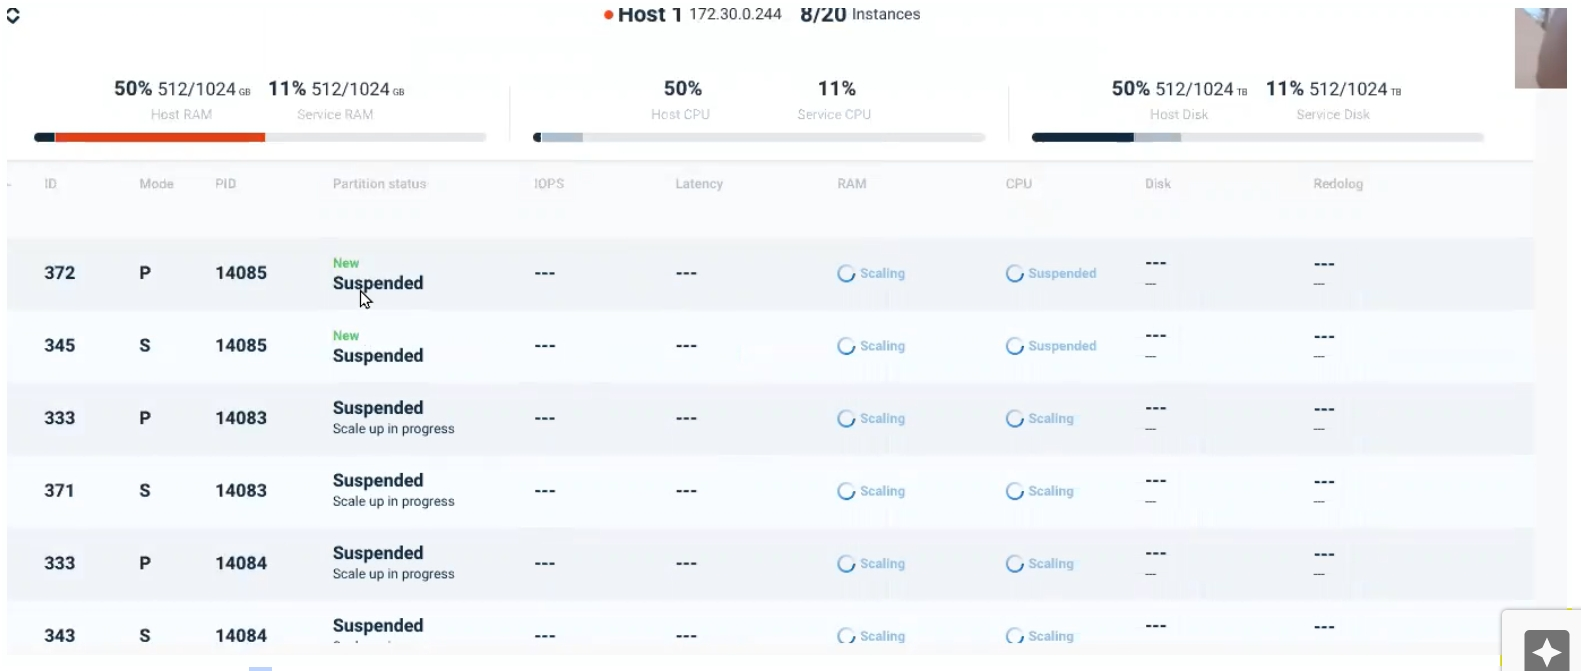
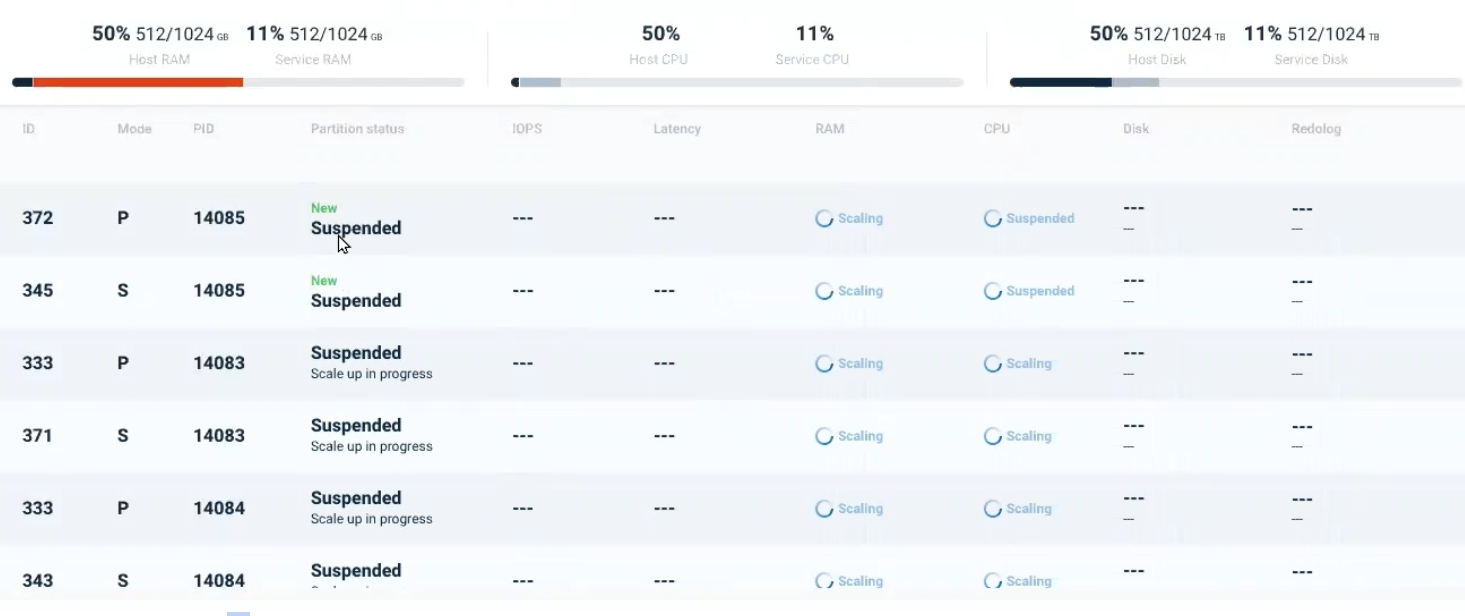
"update screenshots" project for ops manager

diff --git a/site-flare/Content/admin/admin-view-types.html b/site-flare/Content/admin/admin-view-types.html
@@ -9,8 +9,9 @@
         <div class="easyui-tabs" plain="true" data-options="">
             <div title="GigaSpaces Ops Manager" style="padding:10px" MadCap:conditions="Version.15-2-only">
                 <p>In the Space overview page, click a Space to drill down.</p>
-                <p>Within this page, the IT administrator or developer can review the Object Type properties and metrics related to size, distribution per partition etc.</p>
-                <p>At the top of the page, it is possible to review the Object Type name and data related to the number of entries, indexes, and Notify Contains generated by the Object Type. A summary of the information available is given below.</p>
+                <p>Within this page, the IT administrator or developer can review the Object Type properties and metrics.</p>
+                <p MadCap:conditions="Default.DoNotShow">At the top of the page, it is possible to review the Object Type name and data related to the number of entries, indexes, and Notify Contains generated by the Object Type. A summary of the information available is given below.</p>
+                <p>For each Object type, you can view the following properties at the bottom of the page:</p>
                 <table>
                     <tr MadCap:conditions="">
                         <th>Parameter</th>
@@ -47,15 +48,10 @@
                     <tr MadCap:conditions="">
                         <td id="sql-editor">SQL editor</td>
                         <td>
-                            <p>Press on the SQL Editor tab to see a SQL SELECT statement for the selected Object Type, in the example below, the Person Object.</p>
+                            <p>Press on the SQL Editor tab to see a SQL SELECT statement for the selected Object Type, in the example below, the <b>Persons</b> Object.</p>
                             <p>Press <b>Run Query</b>. The results will appear in the Query Results table on the bottom of the page.<br /><img src="../Resources/Static/attachment_files/01 SQL OPM.png" class="tc-picture50" style="width: 926px; height: 118px;" /></p>
                             <div class="tc-admon-note">
-                                <p>The user can edit the query, for example:</p>
-                                <p>
-                                    <br />
-                                    <img src="../Resources/Static/attachment_files/02 SQL OPM.png" class="tc-picture60" />
-                                    <br />
-                                </p>
+                                <p>The user can edit the query, for example:</p><code class="language-sql">SELECT * FROM "com.mycompany.app.model.Persons" where personname LIKE '%Person 1%' LIMIT 10</code>
                             </div>
                         </td>
                     </tr><span id="explain-plan"></span>
@@ -135,7 +131,97 @@
                 </table>
                 <p>&#160;</p>
             </div>
-            <div title="GigaSpaces Ops Manager" style="padding:10px" MadCap:conditions="Version.15-8-born">
+            <div title="GigaSpaces Ops Manager" style="padding:10px" MadCap:conditions="Version.16-1-born">
+                <p>In the Space overview page, click a Space to drill down.</p>
+                <p>Within this page, the IT administrator or developer can review the Object Type properties and metrics related to size, distribution per partition etc.</p>
+                <p>At the top of the page, it is possible to review the Object Type name and data related to the number of entries, indexes, and Notify Contains generated by the Object Type. A summary of the information available is given below.</p>
+                <table>
+                    <tr MadCap:conditions="">
+                        <th>Parameter</th>
+                        <th>Description</th>
+                    </tr>
+                    <tr MadCap:conditions="">
+                        <td>Name</td>
+                        <td>Name of the data object</td>
+                    </tr>
+                    <tr MadCap:conditions="">
+                        <td>Entries</td>
+                        <td>Number of entries for the object</td>
+                    </tr>
+                    <tr MadCap:conditions="">
+                        <td>RAM size</td>
+                        <td>Total amount of RAM used by the object</td>
+                    </tr>
+                    <tr MadCap:conditions="">
+                        <td>ID</td>
+                        <td>Pointer to the primary key of the data type in the Space</td>
+                    </tr>
+                    <tr MadCap:conditions="">
+                        <td>Indexes</td>
+                        <td>Number of indexes defined for the Object Type</td>
+                    </tr>
+                    <tr MadCap:conditions="">
+                        <td>Routing</td>
+                        <td>Pointer to the field that identifies the Space partition.</td>
+                    </tr>
+                    <tr MadCap:conditions="">
+                        <td>Notify containers</td>
+                        <td>How many instances of this object type match a template in an event container. </td>
+                    </tr>
+                    <tr MadCap:conditions="Default.DoNotShow">
+                        <td id="sql-editor">SQL editor</td>
+                        <td>
+                            <p>Press on the SQL Editor tab to see a SQL SELECT statement for the selected Object Type, in the example below, the Persons Object.</p>
+                            <p>Press <b>Run Query</b>. The results will appear in the Query Results table on the bottom of the page.</p>
+                            <p>An example query is as follows:</p><code class="language-sql" style="font-weight: bold;">SELECT * FROM "com.mycompany.app.model.Persons" LIMIT 10</code>
+                            <p>This example query can be seen in the Ops Manager screen:<br /></p>
+                            <p>
+                                <img src="../Resources/Static/attachment_files/01 SQL OPM.png" />
+                            </p>
+                            <div class="tc-admon-note">
+                                <p>The user can edit the query, for example:</p>
+                                <p><code class="language-sql" style="font-weight: bold;">SELECT * FROM "com.mycompany.app.model.Persons" where personname LIKE '%Person 1%' LIMIT 10</code>
+                                </p>
+                            </div>
+                        </td>
+                    </tr><span id="explain-plan"></span>
+                    <tr MadCap:conditions="Default.DoNotShow">
+                        <td>Explain Plan</td>
+                        <td>
+                            <p>The <b>Explain Plan</b> of a query can be viewed In the Ops Manager when running a query in the SQL Query Editor. The output of the query explain plan is shown in a collapsible view above the query results table. </p>
+                            <div class="tc-admon-note">
+                                <p>To enable the Explain Plan feature, begin the query with <code class="language-sql">EXPLAIN</code>, for example:</p><code class="language-sql" style="font-weight: bold;"><span class="tc-highlight">EXPLAIN</span> SELECT * FROM "com.mycompany.app.model.Persons" LIMIT 10</code>
+                            </div>
+                            <div class="tc-admon-attention" MadCap:conditions="Version.15-5-born">
+                                <p>Running a query with an Explain Plan may impact the query performance.</p>
+                            </div>
+                        </td>
+                    </tr>
+                </table>
+                <p>Press on the SQL Editor tab to see a SQL SELECT statement for the selected Object Type.</p>
+                <p>Press <b>Run Query</b>. The results will appear in the Query Results table on the bottom of the page.</p>
+                <p>An example query is as follows:</p>
+                <p><code class="language-sql" style="font-weight: bold;">SELECT * FROM "com.mycompany.app.model.Persons" LIMIT 10</code>
+                </p>
+                <p>This example query can be seen in the Ops Manager screen:</p>
+                <p>
+                    <img src="../Resources/Static/attachment_files/01 SQL OPM.png" style="width: 669px;height: 187px;" />
+                </p>
+                <div class="tc-admon-note">
+                    <p>The user can edit the query, for example:</p>
+                    <p><code class="language-sql" style="font-weight: bold;">SELECT * FROM "com.mycompany.app.model.Persons" where personname LIKE '%Person 1%' LIMIT 10</code>
+                    </p>
+                </div>
+                <p>The <b>Explain Plan</b> of a query can be viewed In the Ops Manager when running a query in the SQL Query Editor. The output of the query explain plan is shown in a collapsible view above the query results table. </p>
+                <div class="tc-admon-note">
+                    <p>To enable the Explain Plan feature, begin the query with <code class="language-sql">EXPLAIN</code>, for example:</p><code class="language-sql" style="font-weight: bold;"><span class="tc-highlight">EXPLAIN</span> SELECT * FROM "com.mycompany.app.model.Persons" LIMIT 10</code>
+                </div>
+                <div class="tc-admon-attention" MadCap:conditions="Version.15-5-born">
+                    <p>Running a query with an Explain Plan may impact the query performance.</p>
+                </div>
+                <p>&#160;</p>
+            </div>
+            <div title="GigaSpaces Ops Manager" style="padding:10px" MadCap:conditions="Version.15-8-born,Version.16-1-died">
                 <p>In the Space overview page, click a Space to drill down.</p>
                 <p>Within this page, the IT administrator or developer can review the Object Type properties and metrics related to size, distribution per partition etc.</p>
                 <p>At the top of the page, it is possible to review the Object Type name and data related to the number of entries, indexes, and Notify Contains generated by the Object Type. A summary of the information available is given below.</p>
@@ -185,8 +271,7 @@
                     <tr MadCap:conditions="">
                         <td id="sql-editor">SQL editor</td>
                         <td>
-                            <p>Press on the SQL Editor tab to see a SQL SELECT statement for the selected Object Type, in the example below, the Person Object.</p>
-                            <p>Press <b>Run Query</b>. The results will appear in the Query Results table on the bottom of the page.<br /><img src="../Resources/Static/attachment_files/01 SQL OPM.png" class="tc-picture90" style="width: 819px; height: 104px;" /></p>
+                            <p>Press on the SQL Editor tab to see a SQL SELECT statement for the selected Object Type.</p>
                             <div class="tc-admon-note">
                                 <p>The user can edit the query, for example:</p>
                                 <p>

diff --git a/site-flare/Content/production/production-Scale-Out-In.html b/site-flare/Content/production/production-Scale-Out-In.html
@@ -52,16 +52,22 @@
         <h1>On Demand Scale Out/In Using the Ops Manager</h1>
         <div title="GigaSpaces Ops Manager" style="padding:10px">
             <p>Click on the service card of the desired service in Ops Manager. The Service Details screen will display:</p>
-            <p>
+            <p MadCap:conditions="Version.16-1-died">
                 <img src="../Resources/Static/images/SOSI--click-on-ellipsis-menu.jpg" />
+            </p>
+            <p MadCap:conditions="Version.16-1-born">
+                <img src="../Resources/Static/images/SOSI--click-on-ellipsis-menu-16.1.png" />
             </p>
             <p>Note the ellipsis menu (three vertical dots). Click on the option On Demand Scale Out/In. Depending on the method of orchestration you are using, the next screen will appear as follows:</p>
             <p><b>ServiceGrid:</b>
             </p>
-            <p style="text-align: center;">
-                <img src="../Resources/Static/images/SOSI-service-grid.jpg" class="tc-picture40" />
+            <p style="text-align: center;" MadCap:conditions="Default.DoNotShow">
+                <img src="../Resources/Static/images/SOSI-service-grid.jpg" class="tc-picture40" style="width: 599px;height: 439px;" />
             </p>
-            <p>In the example above, there are currently 16 partitions alocated for the service. You can choose one of the suggested numbers of partitions, or press Custom to choose any number of partitions. Note that the new partitions will all have the same allocation of RAM and CPU as the existing partitions.</p>
+            <p>
+                <img src="../Resources/Static/images/SOSI-service-grid.png" />
+            </p>
+            <p>In the example above, there is currently one partition alocated for the service. You can choose one of the suggested numbers of partitions, or press Custom to choose any number of partitions. Note that the new partitions will all have the same allocation of RAM and CPU as the existing partitions.</p>
             <p><b>Kubernetes</b>
                 <MadCap:conditionalText MadCap:conditions="Version.16-0-died"><b> and ElasticGrid</b>
                 </MadCap:conditionalText><b>:</b>
@@ -71,19 +77,26 @@
             </p>
             <p>In the example above, there are currently 16 partitions using the service. You can choose one of the suggested numbers of partitions, or press Custom to choose any number of partitions.</p>
             <p>Note that by default the suggested RAM (8M) and CPU (200Mib) for the new partitions is based on the most frequent allocation for the existing partitions. Click on <b>&gt; CPU </b>or<b> &gt; RAM </b>to override these suggested values for the new partitions.</p>
+            <p>In our example, we will scale to two partitions:</p>
+            <p>
+                <img src="../Resources/Static/images/SOSI-service-grid-choose-two-partitions.png" />
+            </p>
             <p>After entering the desired values and pressing <b>Apply</b>, the system will display a confirmation screen:</p>
             <p>
-                <img src="../Resources/Static/images/SOSI-Confirmation-Screen.jpg" class="tc-picture30" />
+                <img src="../Resources/Static/images/SOSI-Confirmation-Screen.png" />
             </p>
             <p>Press <b>Scale Now</b> to begin the scaling process.</p>
             <p>As the scaling is underway, a progress message will display in the screen banner:</p>
             <p>
-                <img src="../Resources/Static/images/SOSI-In-Progress.jpg" class="tc-picture50" />
+                <img src="../Resources/Static/images/SOSI-In-Progress.png" />
             </p>
             <p>&#160;</p>
             <p>Note that while the scaling is in progress, the status of the individual affected services will display in the Service Details screen:</p>
-            <p>
+            <p MadCap:conditions="Version.16-1-died">
                 <img src="../Resources/Static/images/SOSI-Suspended.jpg" />
+            </p>
+            <p MadCap:conditions="Version.16-1-born">
+                <img src="../Resources/Static/images/SOSI-Suspended-16.1.png" />
             </p>
         </div>
         <div title="Command Line Interface" style="padding:10px">

diff --git a/site-flare/Content/started/getting-started-with-gigaspaces-smartcache-set-environment.html b/site-flare/Content/started/getting-started-with-gigaspaces-smartcache-set-environment.html
@@ -14,25 +14,20 @@
                     <p><b><span style="font-family: 'Webdings'">4</span> Part 1 — Setting the Environment</b> (this topic) — Prepare a database that will be imported into GigaSpaces. In these examples, we will use the Postgres database.</p>
                 </li>
                 <li>
-                    <p>
-                        <MadCap:xref href="getting-started-with-gigaspaces-smartcache-launch-ops-manager.html" class="Part-2-Launch-Ops-Manager">Part 2 — Launch Ops Manager</MadCap:xref> — Run and view the GigaSpaces GUI.</p>
+                    <p>Part 2 — <MadCap:xref href="getting-started-with-gigaspaces-smartcache-launch-ops-manager.html" class="Part-2-Launch-Ops-Manager">Launch Ops Manager</MadCap:xref> — Run and view the GigaSpaces GUI.</p>
                 </li>
                 <li>
-                    <p>
-                        <MadCap:xref href="getting-started-with-gigaspaces-smartcache-port-to-space.html" class="part-3-import-a-database">Part 3 — Import a Database</MadCap:xref> — Bring the Postgres database into SmartCache, the GigaSpaces in-memory grid, and run some SQL operations.</p>
+                    <p>Part 3 — <MadCap:xref href="getting-started-with-gigaspaces-smartcache-port-to-space.html" class="part-3-import-a-database">Import a Database</MadCap:xref> — Bring the Postgres database into SmartCache, the GigaSpaces in-memory grid, and run some SQL operations.</p>
                 </li>
-                <li MadCap:conditions="Default.DoNotShow">
-                    <p>Part 3 — Convert a Program — Port a standard Java program that uses Postgres to GigaSpaces SmartCache.</p>
-                </li>
-                <li MadCap:conditions="Default.DoNotShow">
-                    <p>Part 4 — <i>Hyperspeed!</i> — Use the GigaSpaces API to maximize the performance of our sample SmartCache application.</p>
+                <li>
+                    <p>Part 4 — <MadCap:xref href="getting-started-with-gigaspaces-convert-a-program.html" class="convert-a-program" style="font-style: italic;">Hyperspeed!</MadCap:xref> — Use the GigaSpaces API to maximize the performance of a sample SmartCache application.</p>
                 </li>
             </ul>
         </div>
         <div class="tc-admon-note">
             <p>Need assistance or further information? Don't hesitate to <a href="https://www.gigaspaces.com/contact-us">contact us</a> — we're here to help!</p>
         </div>
-        <h1>What Will we do in This Topic?</h1>
+        <h1>What Will We Do in This Topic?</h1>
         <div>
             <p>We will download and install GigaSpaces and Postgres, the database we are using in these examples. We will then create a sample Postgres database.</p>
             <p>Later, in <MadCap:xref href="getting-started-with-gigaspaces-smartcache-launch-ops-manager.html" class="part-2">Part 2</MadCap:xref> of this introduction, we will launch Ops Manager, the GigaSpaces user interface.</p>

diff --git a/site-flare/Content/dev-java/storage-optimization.htm b/site-flare/Content/dev-java/storage-optimization.htm
@@ -5,7 +5,7 @@
     <body>
         <h1>Storage Optimization</h1>
         <p>Storage Optimization is a feature of <MadCap:variable name="General.ProductNameIE" /> that reduces the memory footprint (RAM) of the the properties of a Space Object, with minimal impact on system performance.</p>
-        <div class="tc-admon-note">
+        <div class="tc-admon-note" MadCap:conditions="Default.DoNotShow">
             <p>Storage Optimization is at <a href="../rn/lifecycle.html#feature-levels">Preview feature level</a>.<br /></p>
         </div>
         <h1>How Does Storage Optimization Work?</h1>
@@ -17,8 +17,8 @@
         <p>Storage Optimization can be configured when the data is modeled using the Ops Manager user interface, or by specifying annotations in the Java code.</p>
         <h2>Configure Storage Optimization via Ops Manager</h2>
         <p>In Ops Manager one-click connect, a toggle on the top of the screen lets you specify Storage Optimization for the Space Object:</p>
-        <p style="text-align: left;">
-            <img src="../Resources/Static/images/storage-optimization-object-toggle-high-res.jpg" style="width: 829px;height: 441px;" />
+        <p>
+            <img src="../Resources/Static/images/storage-optimization-object-toggle-high-res.png" />
         </p>
         <p>Clicking on the toggle will select Storage Optimization for every non-indexed property in the object. This covers the vast majority of the cases. After loading and measuring the data capacity, toggling of individual properties to be BINARY or COMPRESSED is available via the API.</p>
         <h2>Configure Storage Optimization via the API </h2>
@@ -132,9 +132,9 @@ public class TestObject {
             </div>
         </div>
         <h1>Viewing Storage Optimization Settings in the Object Screen</h1>
-        <p>Using the <MadCap:xref href="../admin/gs-ops-manager-overview.html">[%=General.ProductNameXAP%] Ops Manager</MadCap:xref>, you can view the status of a Space Object. The Storage Optimized icon is display next to fields that are using Storage Optimization.</p>
+        <p>Using the <MadCap:xref href="../admin/gs-ops-manager-overview.html">[%=General.ProductNameXAP%] Ops Manager</MadCap:xref>, you can view the status of a Space Object. The Storage Optimized icon <img src="../Resources/Static/images/storage-optimization-icon.png" /> is displayed next to fields that are using Storage Optimization.</p>
         <p>
-            <img src="../Resources/Static/images/storage-optimization-view-space-in-ops-manager.png" style="width: 398px;height: 389px;" />
+            <img src="../Resources/Static/images/storage-optimization-view-space-in-ops-manager.png" style="width: 464px;height: 447px;" />
         </p>
         <h1>Limitations</h1>
         <ul>

diff --git a/site-flare/Content/started/getting-started-with-gigaspaces-smartcache-launch-ops-manager.html b/site-flare/Content/started/getting-started-with-gigaspaces-smartcache-launch-ops-manager.html
@@ -8,6 +8,20 @@
             <p>This topic is a hands/on introduction to GigaSpaces SmartCache. It is designed to give you a quick, easy introduction to the GigaSpaces system.</p>
             <p>This introduction consists of three parts:</p>
             <ul>
+                <li>
+                    <p><b><span style="font-family: 'Webdings'">4</span> <b><MadCap:xref href="getting-started-with-gigaspaces-smartcache-set-environment.html" class="part-1" style="font-weight: normal;">Part 1 — Setting the Environment</MadCap:xref></b></b> — Prepare a database that will be imported into GigaSpaces. In these examples, we will use the Postgres database.</p>
+                </li>
+                <li>
+                    <p><b>Part 2 — Launch Ops Manager</b> (this topic) —  Run and view the GigaSpaces GUI.</p>
+                </li>
+                <li>
+                    <p>Part 3 — <MadCap:xref href="getting-started-with-gigaspaces-smartcache-port-to-space.html" class="part-3-import-a-database">Import a Database</MadCap:xref> — Bring the Postgres database into SmartCache, the GigaSpaces in-memory grid, and run some SQL operations.</p>
+                </li>
+                <li>
+                    <p>Part 4 — <MadCap:xref href="getting-started-with-gigaspaces-convert-a-program.html" class="convert-a-program" style="font-style: italic;">Hyperspeed!</MadCap:xref> — Use the GigaSpaces API to maximize the performance of a sample SmartCache application.</p>
+                </li>
+            </ul>
+            <ul>
                 <li><b><MadCap:xref href="getting-started-with-gigaspaces-smartcache-set-environment.html" class="part-1" style="font-weight: normal;">Part 1 — Setting the Environment</MadCap:xref></b> — Prepare a database that will be imported into GigaSpaces. In these examples, we will use the Postgres database.</li>
                 <li>
                     <p><b>Part 2 — Launch Ops Manager</b> (this topic) — Run and view the GigaSpaces GUI.</p>

diff --git a/site-flare/Content/production/production-capacity-planning.html b/site-flare/Content/production/production-capacity-planning.html
@@ -25,7 +25,7 @@
         </div>
         <div MadCap:conditions="Version.15-5-born">
             <h1>Capacity Planning Using Ops Manager </h1>
-            <p>Using the Ops manage in the testing enviroment, you can plan capacity according to the expected number of objects per each type.</p>
+            <p>Using the Ops manage in the testing environment, you can plan capacity according to the expected number of objects per each type.</p>
             <ol>
                 <li>
                     <p>Trigger an Object Analysis by pressing the Run Objects Analysis icon on the Ops Manager Space view screen (the circle Icon on the right):</p>
@@ -58,7 +58,7 @@
             <p>Some consideration regarding the number of partitions:</p>
             <p>1. How many cores are needed per processing and doing the calculations on X data</p>
             <p>2. How fast should be the initial load from the data source?</p>
-            <p>3. How fust should query, or tasks return?</p>
+            <p>3. How fast should query, or tasks return?</p>
             <p>The more partitions you have, the More parallelism is possible, and you can divide the work into more process</p>
             <p>The larger the heap of one partition - the more GC tuning will be required.</p>
             <p>The partition number is a balance between CPU and memory requirement</p>

diff --git a/site-flare/Content/admin/kubernetes-ie-eks.html b/site-flare/Content/admin/kubernetes-ie-eks.html
@@ -116,13 +116,13 @@ service:
             <li MadCap:conditions="Version.15-0-died">Perform a simple test by using one of the REST APIs, for example <code>GET/spaces</code>. </li>
             <li MadCap:conditions="Version.15-0-born">
                 <p>Copy the <MadCap:variable name="General.ProductNameIE" /> Manager IP&#160;address to a browser window and add the port number (8090). The Ops Manager should load.</p>
-                <p>
+                <p MadCap:conditions="Default.DoNotShow">
                     <img src="gs-ops-manager2.png" class="tc-picture80" />
                 </p>
             </li>
             <li>
                 <p>Copy the <MadCap:variable name="General.ProductNameIE" /> Zeppelin IP&#160;address into the browser window and add the port (9090). The <MadCap:variable name="General.ProductNameIE" /> Apache Zeppelin web notebook should load.</p>
-                <p>
+                <p MadCap:conditions="Default.DoNotShow">
                     <img src="../Resources/Static/attachment_files/kubernetes/eks-zeppelin.png" class="tc-picture100" />
                 </p>
             </li>

diff --git a/site-flare/Content/dev-java/broadcast-objects.html b/site-flare/Content/dev-java/broadcast-objects.html
@@ -65,12 +65,12 @@ builder.create();
         </div>
         <h2>Ops Manager</h2>
         <p>A Broadcast Object can be defined using the One-Click Connect feature of Ops Manager by setting the “Broadcast Object” toggle.</p>
-        <p style="text-align: left;">
-            <img src="../Resources/Static/images/broadcast-objects-object-toggle-high-res.jpg" style="width: 710px;height: 129px;" />
+        <p>
+            <img src="../Resources/Static/images/broadcast-objects-object-toggle-high-res.png" />
         </p>
         <p>When viewing a Broadcast Object in the Object Screen in Ops Manager, it will list it as a Broadcast Object under the Object Name.</p>
-        <p style="text-align: left;">
-            <img src="../Resources/Static/images/broadcast-objects-shows-as-bo-high-res.jpg" style="width: 271px;height: 77px;" />
+        <p>
+            <img src="../Resources/Static/images/broadcast-objects-shows-as-bo-high-res.png" />
         </p>
         <h1>Limitations</h1>
         <p>Defining a Broadcast Object in .NET Client SDK is not currently supported.</p>

diff --git a/site-flare/Content/admin/logging-overview.html b/site-flare/Content/admin/logging-overview.html
@@ -69,7 +69,7 @@ export <MadCap:variable name="General.EnvVariablePrefix" />_LOGS_CONFIG_FILE=myf
             <p>The logging options can be changed dynamically via one of the following approaches:</p>
             <div class="easyui-tabs" plain="true" data-options="" MadCap:conditions="NewSet.JustAColorForDivs">
                 <div title="GigaSpaces Ops Manager" style="padding:10px" MadCap:conditions="Version.15-0-born">
-                    <p>Click the card in the Services area of the Cluster overview page. On the top right of the screen, click on the three-dot menu. The following popup will appear:</p>
+                    <p>Click the card in the Services area of the Services Overview page. On the top right of the screen, click on the three-dot menu. The following popup will appear:</p>
                     <p>
                         <img src="../Resources/Static/images/ops-manager-change-log-level.png" />
                     </p>

diff --git a/site-flare/Content/admin/admin-query-space.html b/site-flare/Content/admin/admin-query-space.html
@@ -16,6 +16,7 @@
             <div title="GigaSpaces Ops Manager" style="padding:10px" MadCap:conditions="Version.15-2-born">
                 <ol>
                     <li>In the Spaces Overview page, click a Space to drill down to the Space details. </li>
+                    <li>Click on an Object type.</li>
                     <li>Click the SQL Editor tab. </li>
                     <li>Modify the SQL&#160;query as necessary, and click <span class="tc-bold">Run Query</span>. The time it took the query to complete is shown below the query area, and the results are displayed in the Results area.</li>
                 </ol>

diff --git a/site-flare/Content/Resources/Stylesheets/tc-styles.css b/site-flare/Content/Resources/Stylesheets/tc-styles.css
@@ -1058,11 +1058,16 @@ MadCap|xref.part-2-import-a-database
 
 MadCap|xref.part-3-import-a-database
 {
-	mc-format: 'Part 3 — Import a Database';
+	mc-format: 'Import a Database';
 }
 
 MadCap|xref.Part-2-Launch-Ops-Manager
 {
-	mc-format: 'Part 2 — Launch Ops Manager';
+	mc-format: 'Launch Ops Manager';
+}
+
+MadCap|xref.convert-a-program
+{
+	mc-format: 'Hyperspeed!';
 }
 
